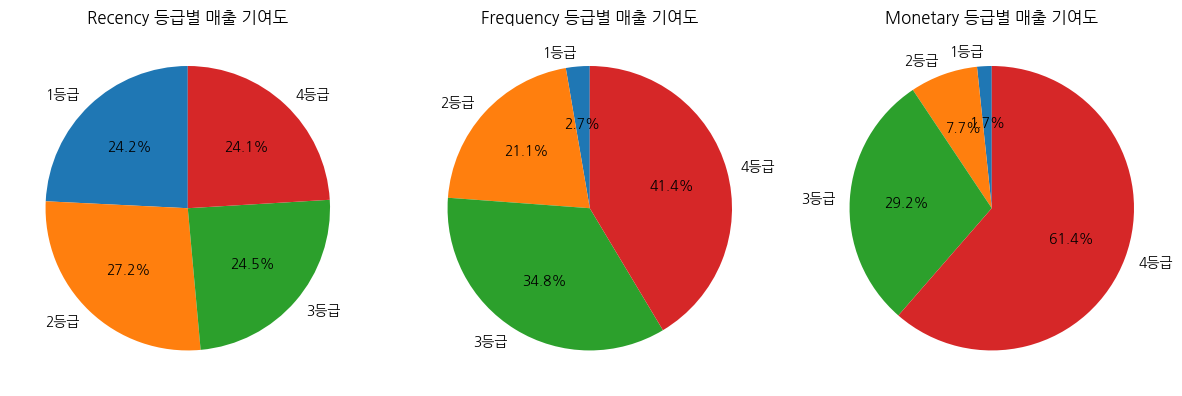
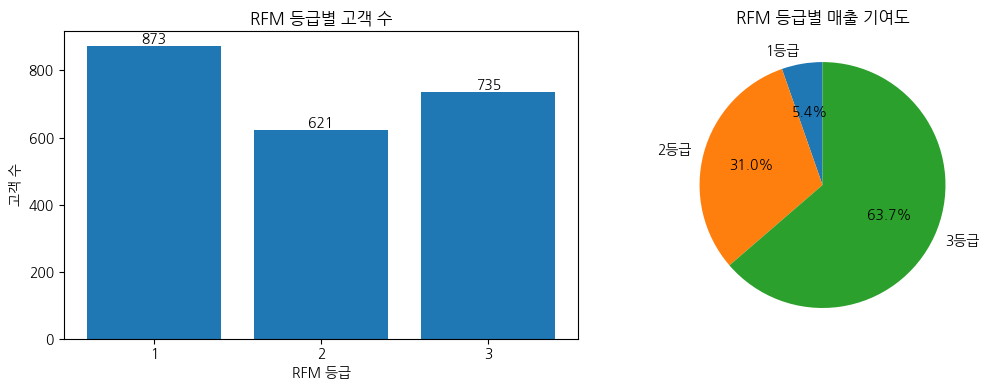
README 흐름과 핵심 시각화 보완

diff --git a/README.md b/README.md
@@ -1,25 +1,27 @@
 # RFM 고객 세분화 분석
 
-온라인 고객 데이터를 이용해 고객별 구매 행동을 RFM 기준으로 나누고, 등급별 특징과 마케팅 활용 방향을 정리한 프로젝트입니다.
+온라인 고객 데이터를 RFM 기준으로 세분화하고, 고객군별 구매 특징과 마케팅 활용 방향을 정리한 프로젝트입니다.
 
-## 프로젝트 개요
+## 분석 목표
 
-- 분석 목적: 고객 가치에 따라 고객군을 구분하고 등급별 구매 특성을 파악
-- 분석 대상: 전처리 후 고객 2,229명
-- 사용 도구: Python, Pandas, Matplotlib, Seaborn, Jupyter Notebook
+이 프로젝트에서는 다음 질문을 확인했습니다.
+
+1. 최근 구매일, 구매 횟수, 구매 금액을 기준으로 고객을 어떻게 구분할 수 있는가?
+2. 어느 고객군이 매출에 가장 크게 기여하는가?
+3. 고객군별 품목, 구매 채널, 할인 구매, 프로모션 반응에는 어떤 차이가 있는가?
+
+## 데이터와 전처리
+
 - 데이터: 캐글 데이터
+- 원본 고객 수: 2,240명
+- 최종 분석 고객 수: 2,229명
+- 사용 도구: Python, Pandas, Matplotlib, Seaborn, Jupyter Notebook
 
-## 전처리
+연 소득 결측값 24개는 평균으로 대체했습니다. 2023년을 기준으로 나이를 계산한 뒤 115세 이상 고객 3명을 제외했고, 연 소득은 IQR 범위를 벗어난 고객 8명을 제거했습니다.
 
-- 연 소득 결측값 24개를 평균값으로 대체했습니다.
-- 기준 연도인 2023년에서 출생 연도를 빼 고객 나이를 계산했습니다.
-- 115세 이상인 고객 3명을 이상값으로 보고 제외했습니다.
-- 연 소득은 IQR 범위를 벗어난 고객 8명을 제외했습니다.
-- 6개 품목의 구매 금액을 합해 총 구매 금액을 만들었습니다.
-- 구매 빈도는 웹 구매와 매장 구매 횟수의 합으로 계산했습니다.
-- 할인 구매 횟수는 채널 구매와 중복될 가능성이 있어 RFM 산식에서 제외하고 고객 성향 분석에 따로 사용했습니다.
+총 구매 금액은 6개 품목의 구매 금액을 합해 계산했습니다. 구매 빈도는 웹 구매와 매장 구매 횟수의 합으로 정의했습니다. 할인 구매 횟수는 채널 구매와 중복될 가능성이 있어 RFM 산식에서는 제외하고 고객 성향 분석에 따로 사용했습니다.
 
-## RFM 기준
+## RFM 점수 계산
 
 | 지표 | 정의 | 점수 방향 |
 | --- | --- | --- |
@@ -27,11 +29,19 @@
 | Frequency | 웹 구매 횟수 + 매장 구매 횟수 | 많을수록 높은 점수 |
 | Monetary | 전체 품목 구매 금액의 합 | 클수록 높은 점수 |
 
-각 지표는 `pd.qcut`을 이용해 4개 구간으로 나누었습니다. 최종 RFM 점수는 Recency 0.2, Frequency 0.4, Monetary 0.4의 가중치를 적용하고 3개 고객 등급으로 구분했습니다.
+각 지표는 `pd.qcut`으로 4개 구간을 만들고 1~4점을 부여했습니다. Recency는 경과일이 짧을수록 높은 점수를 받도록 라벨 순서를 반대로 설정했습니다.
 
-## 주요 결과
+![RFM 지표 등급별 매출 기여도](images/rfm_score_revenue_contribution.png)
+
+Recency 등급별 매출 비중은 24.0~27.2%로 차이가 작았습니다. 반면 Frequency 4등급은 매출의 41.4%, Monetary 4등급은 61.4%를 차지했습니다. 이 차이를 반영해 최종 점수에는 Recency 0.2, Frequency 0.4, Monetary 0.4의 가중치를 적용했습니다.
+
+## 고객 세분화 결과
+
+가중 RFM 점수를 동일한 간격의 3개 구간으로 나누어 1~3등급으로 구분했습니다.
 
 ![RFM 등급별 고객 수와 매출 기여도](images/rfm_summary.png)
+
+3등급은 전체 고객의 33.0%지만 매출의 63.7%를 차지했습니다. 반대로 1등급은 고객 수가 가장 많지만 매출 비중은 5.4%였습니다. 고객 수만 비교하는 것보다 고객당 구매 규모를 함께 보는 것이 중요합니다.
 
 | RFM 등급 | 고객 수 | 고객 비중 | 매출 비중 | 평균 Recency | 평균 구매 횟수 | 평균 구매 금액 |
 | ---: | ---: | ---: | ---: | ---: | ---: | ---: |
@@ -39,26 +49,35 @@
 | 2등급 | 621명 | 27.9% | 31.0% | 53.7일 | 10.4회 | 약 87.5만 원 |
 | 3등급 | 735명 | 33.0% | 63.7% | 38.6일 | 15.4회 | 약 152.0만 원 |
 
-- 3등급 고객은 전체 고객의 33.0%지만 매출의 63.7%를 차지했습니다.
-- 3등급은 평균 구매 횟수와 평균 구매 금액이 모두 가장 높았습니다.
-- 등급이 높아질수록 주류 매출 비중이 커졌습니다.
-- 혼인 상태의 구성 비율은 등급별 차이가 크지 않았습니다.
+![Recency와 총 구매 금액에 따른 RFM 등급](images/recency_amount_scatter.png)
 
-## 고객 성향 분석
+3등급에는 구매 금액이 크고 최근 구매일이 비교적 가까운 고객이 많이 포함됐습니다. 다만 구매 금액이 크면서 Recency가 긴 고객도 있어, 이 고객들은 재구매 유도 대상을 선정할 때 별도로 살펴볼 필요가 있습니다.
+
+## 고객군별 구매 성향
+
+### 품목별 매출 구성
 
 ![RFM 등급별 품목 매출 구성](images/product_mix.png)
 
-3등급의 주류 매출 비중은 51.3%로 1등급의 41.9%보다 높았습니다. 반면 잡화 비중은 1등급 16.6%에서 3등급 6.2%로 낮아졌습니다.
+등급이 높아질수록 주류 매출 비중이 커졌습니다. 주류 비중은 1등급 41.9%, 3등급 51.3%였습니다. 반면 잡화 비중은 1등급 16.6%에서 3등급 6.2%로 낮아졌습니다.
+
+### 구매 채널과 할인 구매
 
 ![구매 채널과 할인 구매 횟수](images/purchase_behavior.png)
 
-모든 등급에서 매장 구매가 웹 구매보다 많았습니다. 할인 구매 횟수는 2등급이 평균 2.66회로 가장 높아 RFM 등급과 단순히 비례하지 않았습니다. 할인 반응은 RFM 점수와 별개의 고객 성향으로 보는 편이 적절합니다.
+모든 등급에서 매장 구매 횟수가 웹 구매보다 많았습니다. 할인 구매 횟수는 2등급이 평균 2.66회로 가장 높아 RFM 등급과 단순히 비례하지 않았습니다. 따라서 할인 반응은 RFM 점수와 별개의 성향으로 보는 편이 적절합니다.
 
-## 활용 방향
+### 프로모션 참여율
 
-- 3등급: 주류 관련 혜택과 VIP 캠페인 우선 검토
-- 2등급: 할인 반응을 활용한 상위 등급 전환 캠페인 검토
-- 구매 금액이 크지만 Recency가 긴 고객: 재구매 유도 캠페인 대상자로 별도 확인
+![RFM 등급별 프로모션 참여율](images/promotion_response.png)
+
+3등급은 대부분의 프로모션에서 참여율이 높았습니다. 특히 프로모션 6의 참여율은 3등급에서 23.1%로 가장 높았습니다. 프로모션 3은 등급별 차이가 작아 비교적 넓은 고객군이 반응한 프로모션으로 볼 수 있습니다.
+
+## 마케팅 활용 방향
+
+- 3등급: 주류 관련 혜택과 VIP 캠페인을 우선 검토합니다.
+- 2등급: 할인 반응을 활용해 상위 등급 전환 캠페인을 검토합니다.
+- 구매 금액이 크지만 Recency가 긴 고객: 재구매 유도 캠페인 대상으로 별도 관리합니다.
 
 ## 파일 구성
 
@@ -70,7 +89,10 @@
 ├── requirements.txt
 └── images
     ├── product_mix.png
+    ├── promotion_response.png
     ├── purchase_behavior.png
+    ├── recency_amount_scatter.png
+    ├── rfm_score_revenue_contribution.png
     └── rfm_summary.png
 ```
 
@@ -81,11 +103,11 @@ pip install -r requirements.txt
 jupyter notebook RFM_분석_포트폴리오.ipynb
 ```
 
-노트북과 `customer_data.csv`를 같은 폴더에 두면 실행할 수 있습니다.
+노트북과 `customer_data.csv`를 같은 폴더에 두면 전체 분석을 실행할 수 있습니다.
 
 ## 분석의 한계
 
-- 거래별 날짜가 없어 구매 주기와 재구매율은 확인하지 못했습니다.
-- RFM 구간은 현재 고객 분포에 따른 상대적인 기준입니다.
+- 거래별 날짜가 없어 고객별 구매 주기와 재구매율은 확인하지 못했습니다.
+- RFM 구간은 현재 데이터의 고객 분포에 따른 상대적인 기준입니다.
 - 할인 구매가 웹·매장 구매에 포함되는지는 데이터 정의만으로 확인하기 어렵습니다.
 - RFM 가중치는 탐색적으로 정한 값이므로 실제 캠페인 성과를 이용한 검증이 필요합니다.
